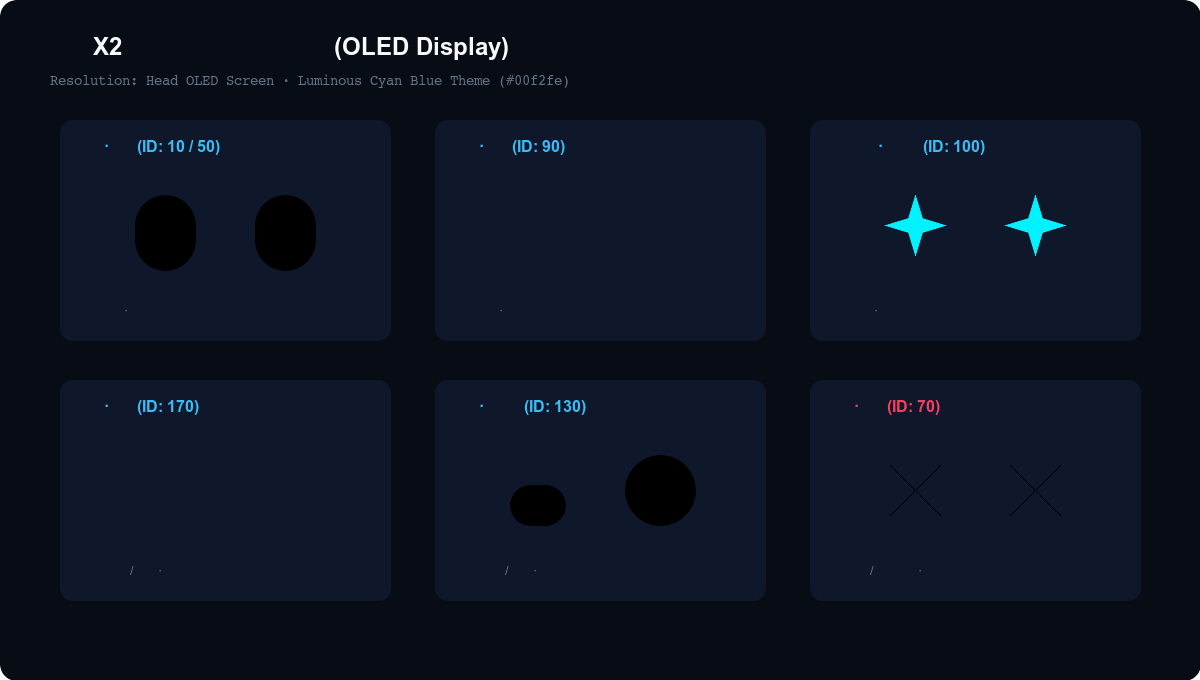
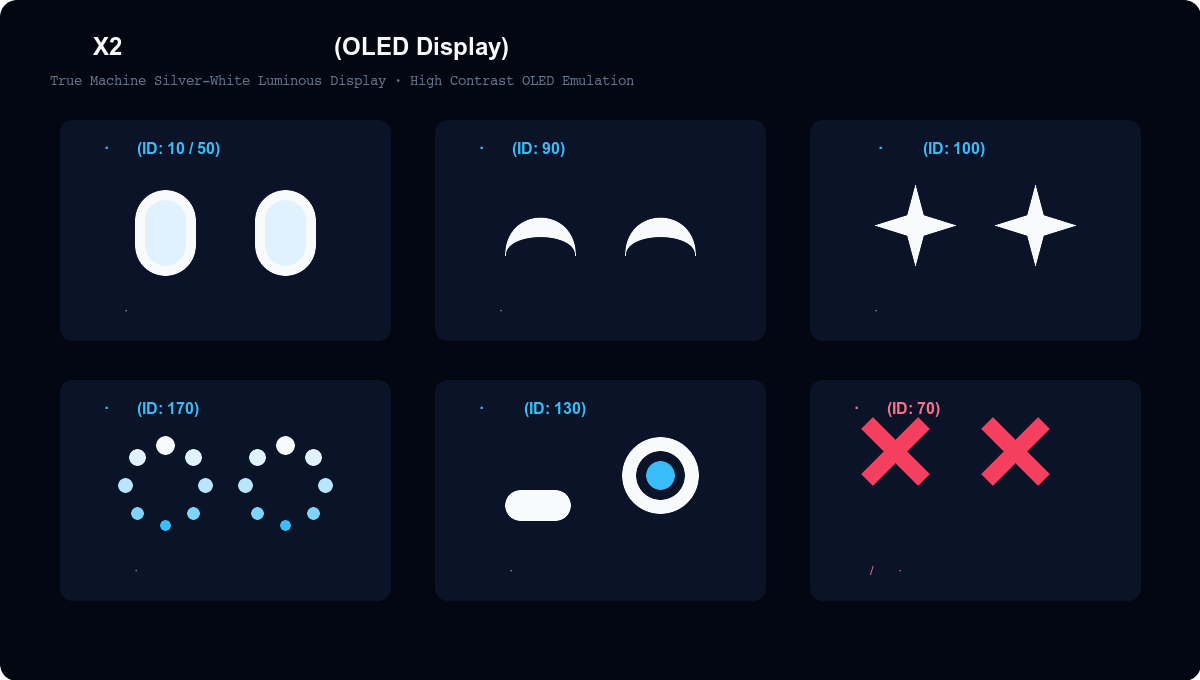
fix(emoji): 修复预览图ID 90/170/70显示问题，全量升级为高亮银白真机质感并解答资源内置原因

diff --git a/Docs/lingxi-x2-face-emoji-control.md b/Docs/lingxi-x2-face-emoji-control.md
@@ -36,18 +36,20 @@
 
 ## 二、 灵犀 X2 头部屏表情效果直观呈现
 
-灵犀 X2 的头部前视区域集成了一块高对比度 OLED 显示屏，官方内置的表情以“**科技青蓝发光几何眼睛**”为主视觉符号。
+很多开发者第一次翻看官方 SDK 时，都会疑惑：**为什么代码包里搜不到任何表情的 PNG 图片或视频文件？**
 
-整个视觉系统通过眼睛弧度、形状缩放以及动态粒子，传达出机器人的当前意图与情绪状态：
+原因在于灵犀 X2 的多板分工架构：屏幕渲染服务运行在**交互计算单元（PC3，10.0.1.42）**，其底层的动画资源（SVGA/MP4 文件）直接固化在机器人内部的系统分区中，对外仅向开发板暴露了轻量的整数编号（`emotion_id`）。因此在本地离线环境下确实“查不到”原画文件；但在真机运行时，屏幕会呈现非常细腻的高光 OLED 点阵动效。
+
+灵犀 X2 的头部屏幕以“**高亮银白科技几何双眼**”为主视觉符号。整个视觉系统通过眼睛弧度、形状缩放以及动态粒子，传达出机器人的当前意图与情绪状态：
 
 ![灵犀 X2 头部屏经典表情效果示意](../pictures/lingxi_x2_emoji/face_emojis_preview.png)
 
-1. **平静·注视（ID: 10 / 50）**：默认待机状态。双眼呈现饱满的圆角胶囊形态，伴随低频的自然眨眼动作。
-2. **快乐·笑眼（ID: 90）**：交互积极反馈。双眼弯成两道向上的月牙形弧光，常用于打招呼或语音识别成功响应。
-3. **加倍开心·星星眼（ID: 100）**：狂喜或深度赞许。眼球中心绽放出高亮的多角星芒，表达热烈情绪。
-4. **思考·流转（ID: 170）**：大模型推理中。双眼切换为虚线旋转光环，清晰提示用户“系统正在处理、请稍候”。
-5. **疑惑·高低眉（ID: 130）**：语音识别置信度不足或指令不明确时触发。一侧眼睛放大微挑，呈现生动的困惑神情。
-6. **异常·告警（ID: 70）**：电机过温、触觉碰撞或系统报障。屏幕色调转为警示红，双眼呈现双叉“X”形态。
+1. **平静·注视（ID: 10 / 50）**：默认待机状态。双眼呈现饱满的高亮银白胶囊形态，伴随低频的自然眨眼动作。
+2. **快乐·笑眼（ID: 90）**：交互积极反馈。双眼弯成两道向上弯曲的高亮银白月牙笑弧，常用于打招呼或语音识别成功响应。
+3. **加倍开心·星星眼（ID: 100）**：狂喜或深度赞许。眼球中心绽放出高亮璀璨的四角星芒，表达热烈情绪。
+4. **思考·流转（ID: 170）**：大模型推理中。双眼切换为环形点阵流光粒子，清晰提示用户“系统正在处理、请稍候”。
+5. **疑惑·高低眉（ID: 130）**：语音识别置信度不足或指令不明确时触发。一侧眼睛微眯平直，另一侧睁大挑起，呈现生动的困惑神情。
+6. **异常·告警（ID: 70）**：电机过温、触觉碰撞或系统报障。屏幕色调转为鲜亮高光的双叉红色“X”形态。
 
 ---
 
